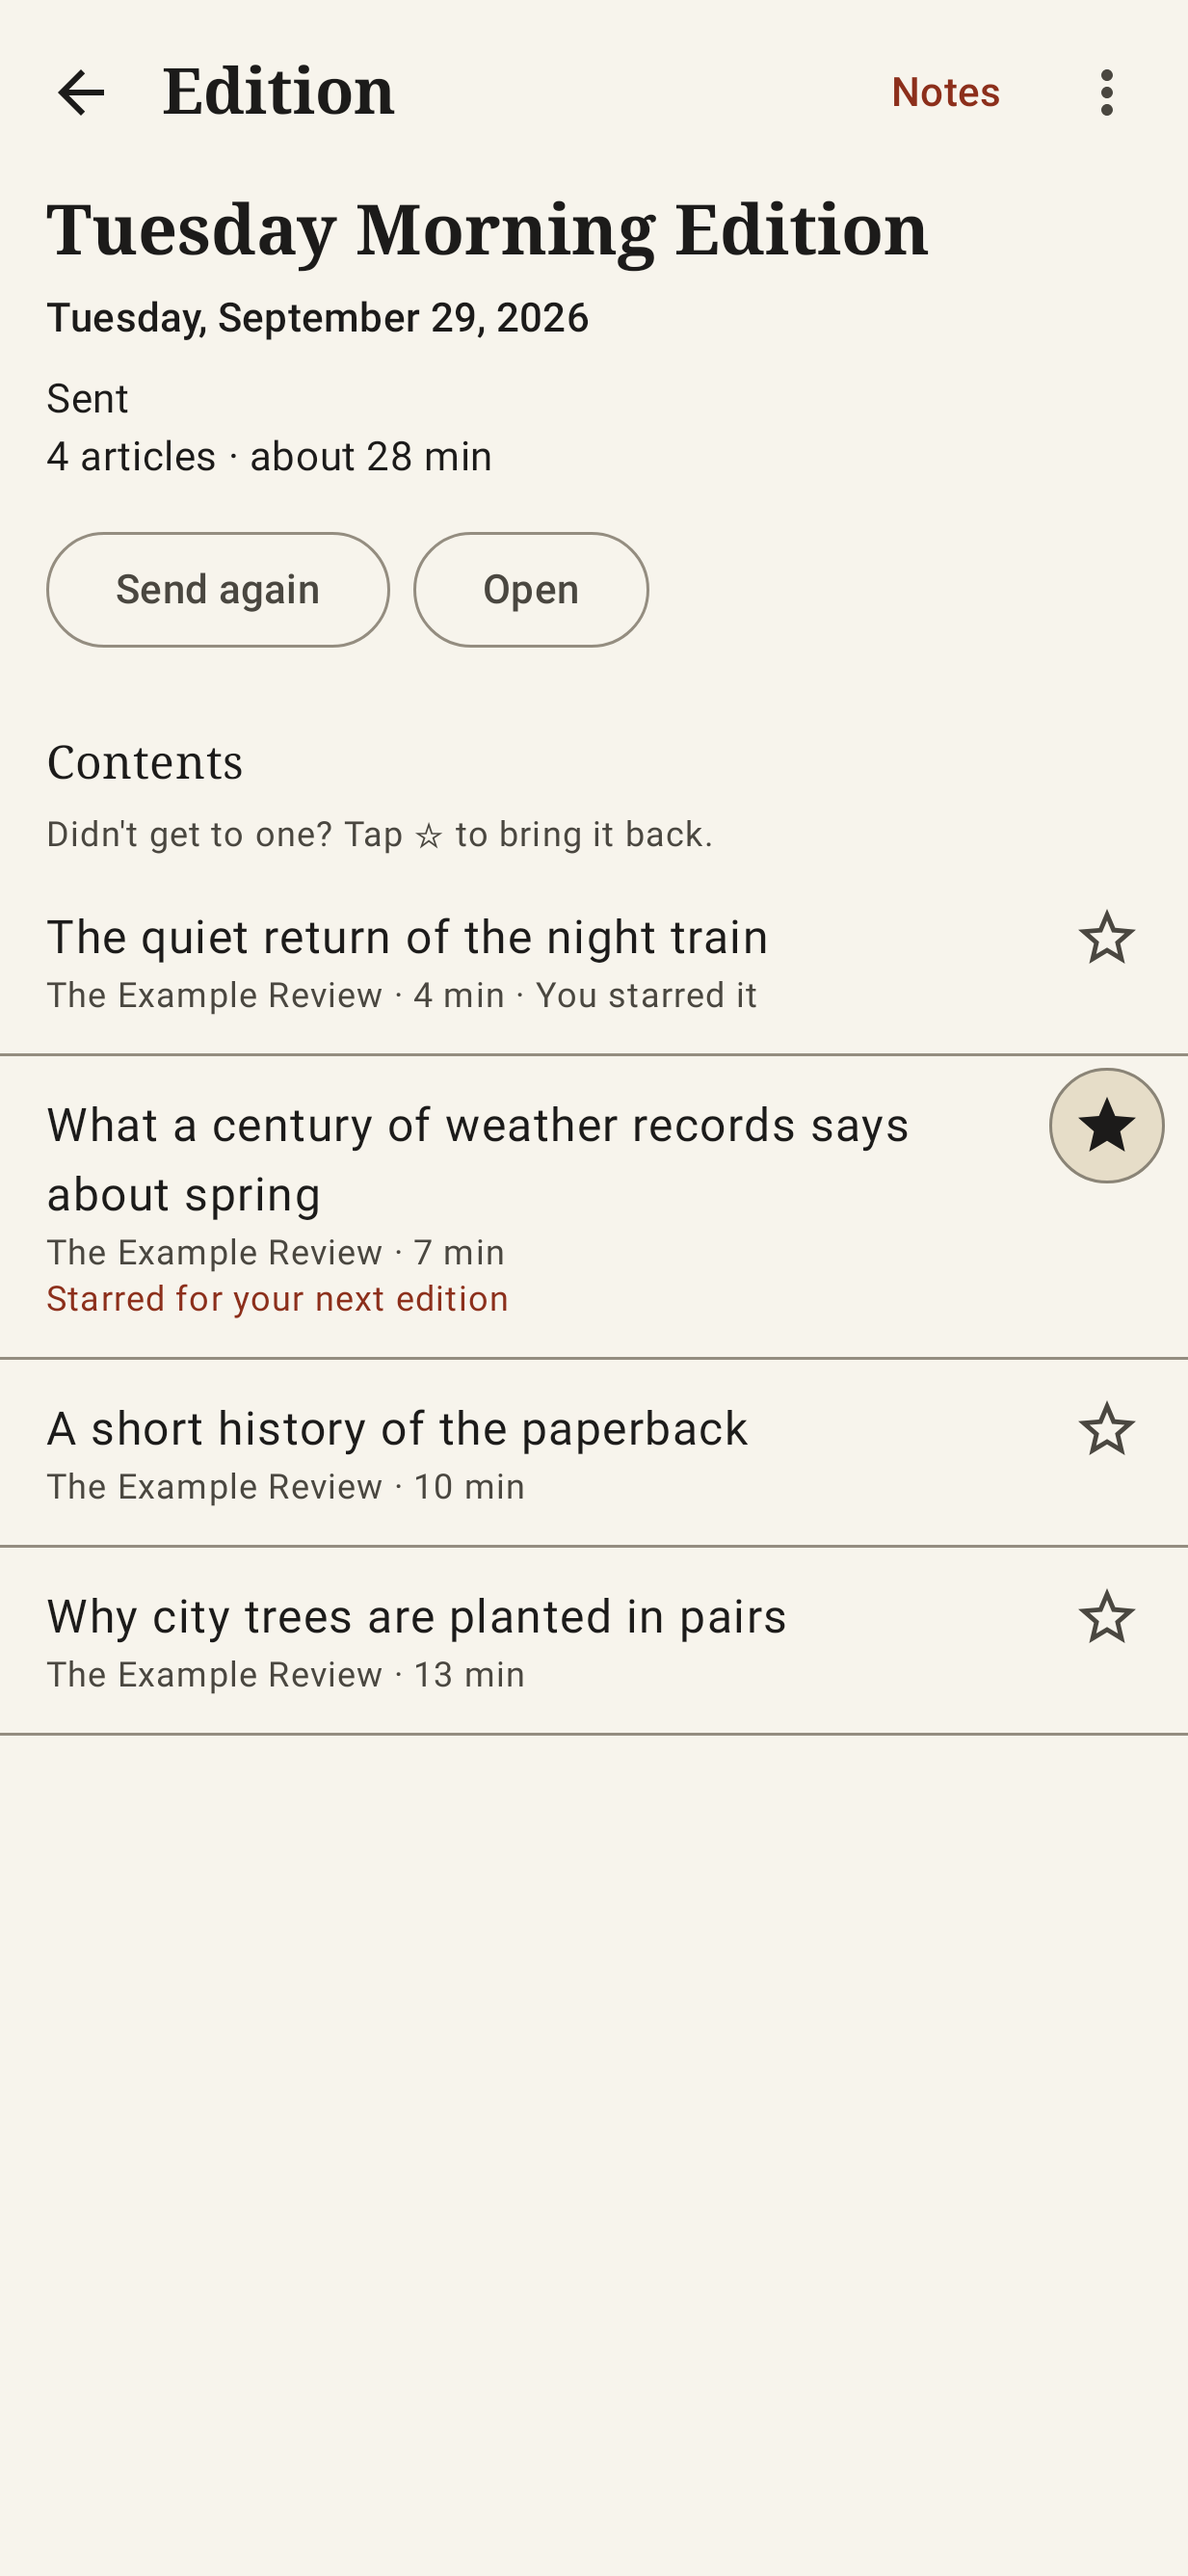
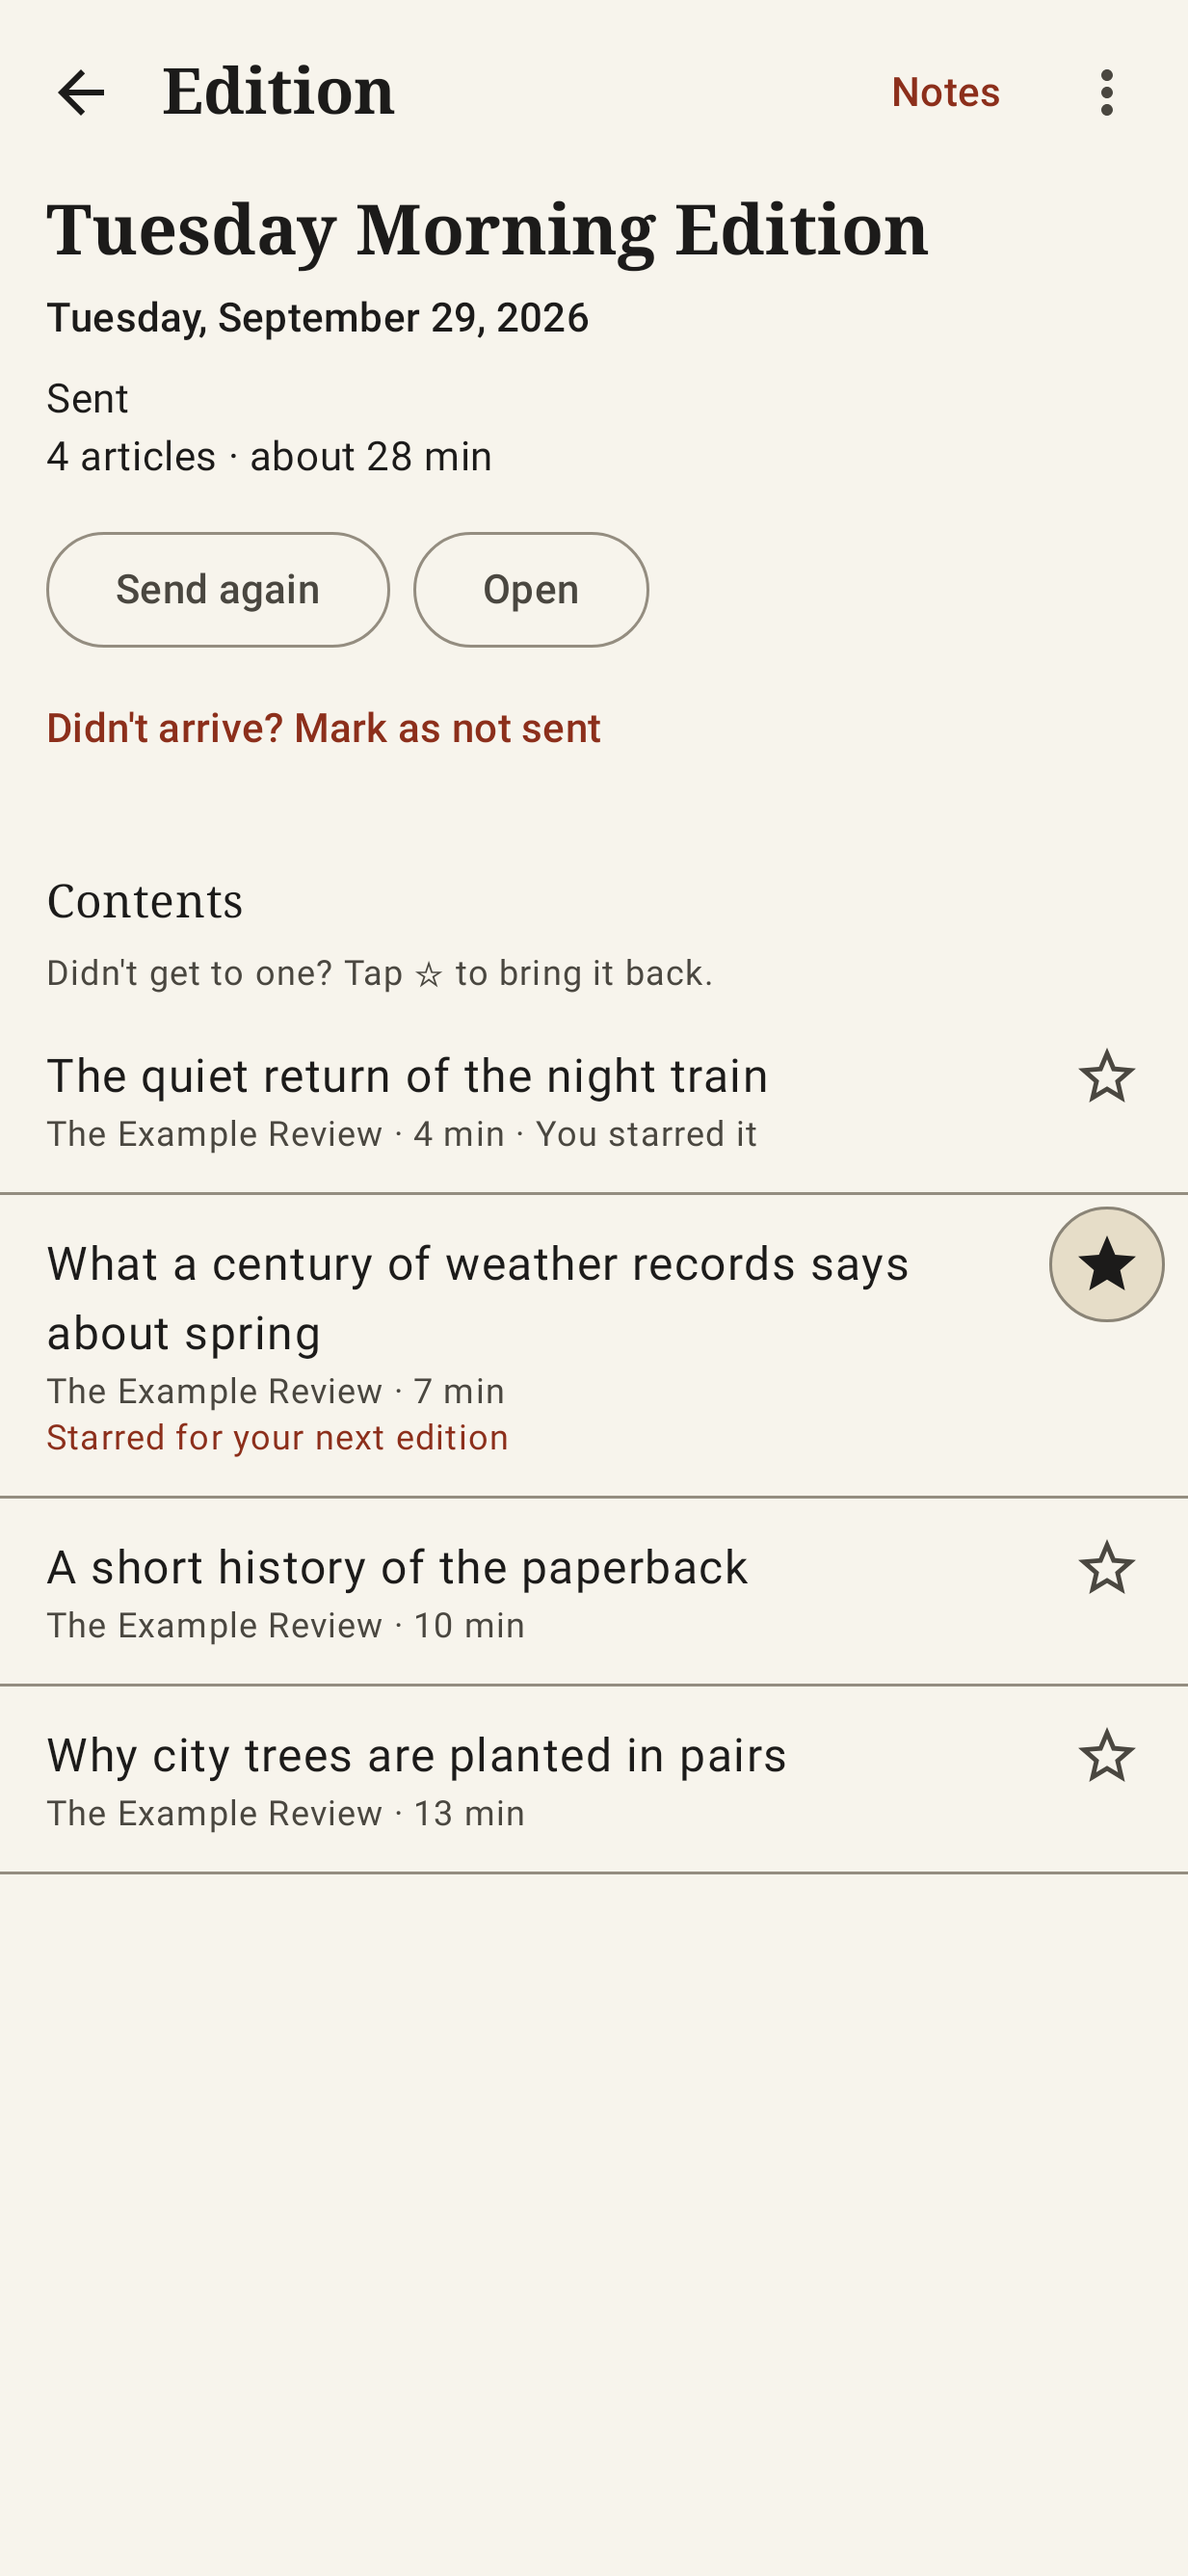
Docs: README covers marking not sent and article history; fresh screenshots
The source-page screenshot fixture gives its unsent edition a weekday
title and its delivered article a send date, so the shot shows the
lines as a reader sees them.

Claude-Session: https://claude.ai/code/session_01RUhkY7zYUNXC6E8xx5UjgD

diff --git a/app/src/test/java/com/app/newspaperss/ui/ScreenshotTest.kt b/app/src/test/java/com/app/newspaperss/ui/ScreenshotTest.kt
@@ -61,7 +61,11 @@ import org.junit.runner.RunWith
 import org.robolectric.annotation.Config
 import org.robolectric.annotation.GraphicsMode
 import java.io.File
+import java.time.Duration
 import java.time.Instant
+import java.time.LocalDate
+import java.time.format.TextStyle
+import java.util.Locale
 
 /**
  * Renders each main screen with real graphics. It catches screens that crash
@@ -175,7 +179,7 @@ class ScreenshotTest {
         shoot("06-sources", ready = { vm.rows.value?.isNotEmpty() == true }) { SourcesScreen(vm) }
     }
 
-    /** A source with a row in each state the design shows: waiting, starred, marked read, in an unsent edition, delivered, got old. */
+    /** A source with a row in each state the design shows: waiting, starred, marked read, in an unsent edition, delivered (two days ago), got old. */
     private fun sourceWithArticles(): SourceDetailViewModel {
         val repo = SourceRepository(db)
         val id = runBlocking {
@@ -193,7 +197,11 @@ class ScreenshotTest {
             repo.setStarred(ids[1], true)
             db.articles().setState(listOf(ids[2]), ArticleState.SKIPPED)
             db.articles().setState(listOf(ids[3]), ArticleState.IN_EDITION)
+            val today = LocalDate.now().dayOfWeek.getDisplayName(TextStyle.FULL, Locale.ENGLISH)
+            val edition = db.editions().insert(EditionEntity(title = "$today Morning Edition", status = EditionStatus.READY))
+            db.editions().insertArticles(listOf(EditionArticleEntity(editionId = edition, articleId = ids[3], position = 0, title = titles[3], sourceTitle = "The Guardian: World", minutes = 6.0)))
             db.articles().setState(listOf(ids[4]), ArticleState.DELIVERED)
+            db.articles().rememberDelivered(listOf(ids[4]), Instant.now().minus(Duration.ofDays(2)))
             db.articles().setState(listOf(ids[5]), ArticleState.EXPIRED)
             db.sources().recordSuccess(id, Instant.now(), null, "https://www.theguardian.com", "")
             db.sources().setFullText(id, ContentMode.PAGE, FullTextEvidence.PAGE_LONGER, 3, null)

diff --git a/README.md b/README.md
@@ -41,10 +41,13 @@ who'd rather not set up Python, a server and a scheduler.
 - **Delivered your way.** A notification with a Send button (Kindle app,
   Dropbox for a Kobo, email), a synced folder (KOReader), or Open on a
   Boox. Articles are used up only once the edition is delivered: saved to
-  your folder, sent through an app you pick, or opened on a Boox.
+  your folder, sent through an app you pick, or opened on a Boox. If one
+  never arrives, mark it as not sent and its articles go back.
 - **Star what you want next.** Star an article in a source's list, or one
   from an edition you didn't finish, and it goes first into the next
-  edition. Mark the rest as read. With tt-rss, read and unread stay in
+  edition. Mark the rest as read. Each article says where it stands:
+  waiting (and for how many more days), in Thursday's edition, sent
+  Wednesday, read, or not picked. With tt-rss, read and unread stay in
   step both ways.
 - **Take notes.** A Markdown notes file per edition for Obsidian, Logseq or
   any notes app: properties Obsidian understands, the end page's question, a
